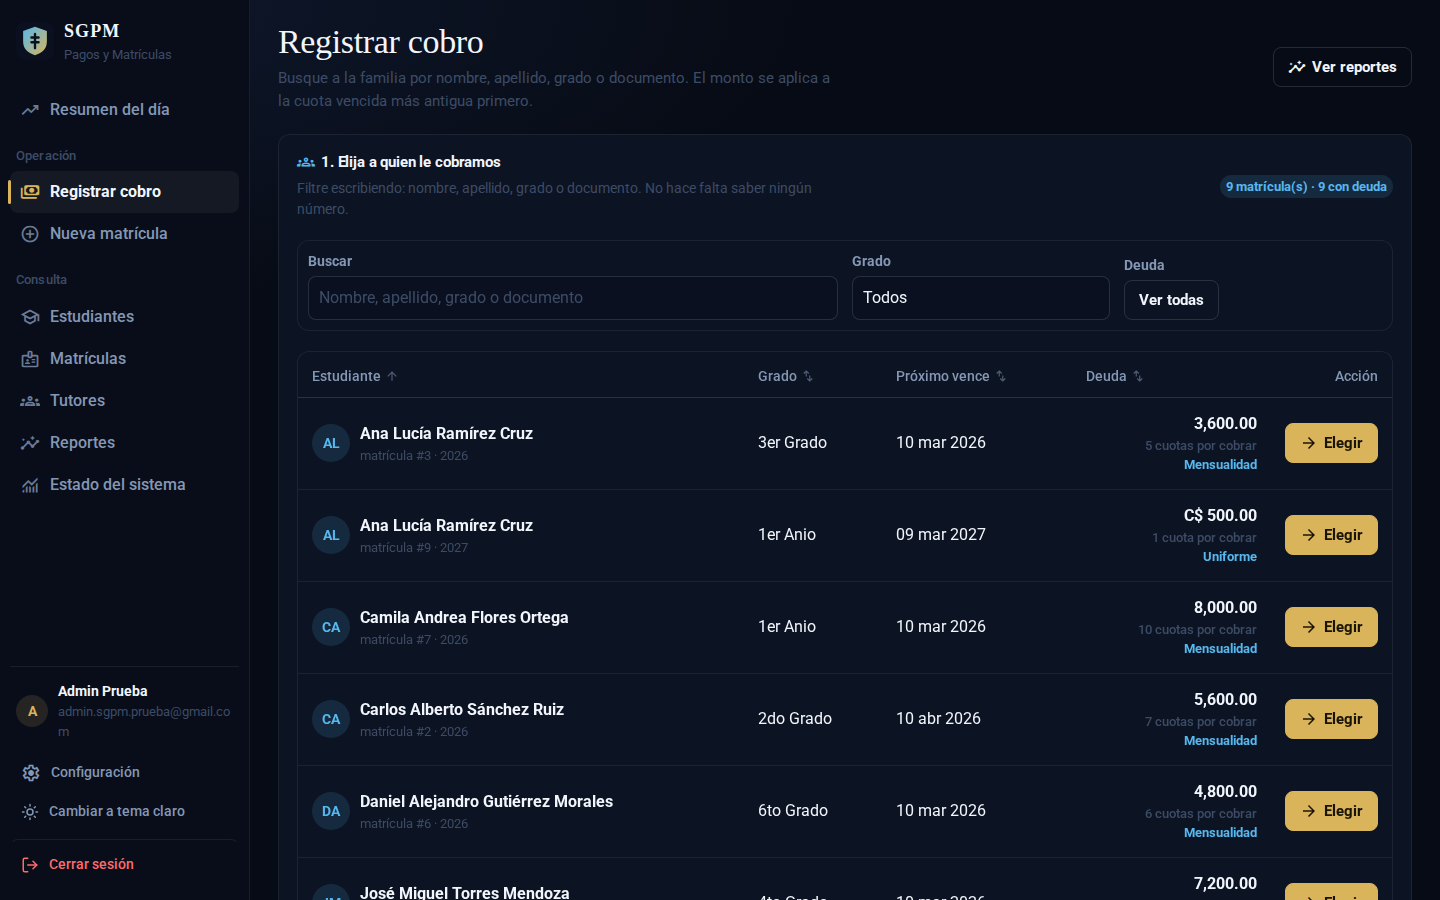
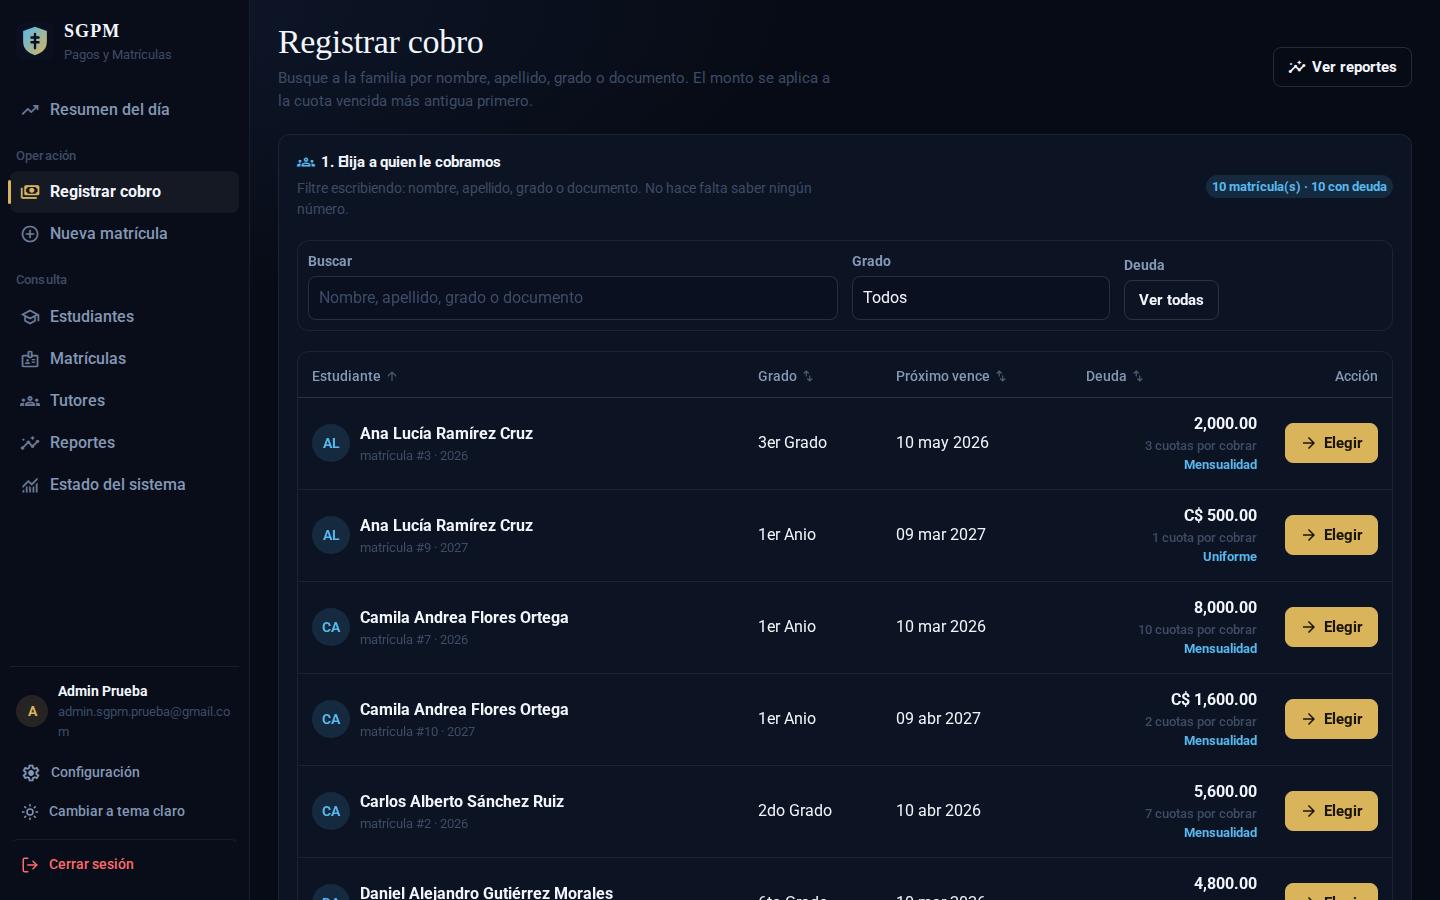
fix(cobro): fecha efectiva en UTC que cambiaba el día, y fecha/hora pegada en el historial
Dos defectos reales de la pantalla de cobro, encontrados al probar el flujo
completo (crear matrícula de mensualidad 2027 por la app y cobrarla):

1. La fecha efectiva se calculaba con `new Date().toISOString().slice(0,10)`,
   que devuelve la fecha EN UTC. En una zona detrás de UTC (México,
   Centroamérica) a partir de las 18:00 locales entregaba el día SIGUIENTE, y
   delante de UTC el anterior. Con una fecha de más o de menos, el backend
   rechazaba el cobro por caer fuera del rango del año lectivo: la persona veía
   el botón bloqueado o un error y no podía cobrar. Añadido `hoyLocal()` en
   formato.ts, que construye la fecha con los componentes locales, y usado en
   CobroPage (fecha efectiva) y ResumenPage (el "hoy" de la portada).

2. El historial de cobros del día mostraba fecha y hora pegadas y con un " h"
   suelto ("13 nov 202623:34:16 h"): ahora usa `fechaHora`, que además se
   endureció para aceptar el formato de PostgreSQL (espacio en lugar de "T" y
   microsegundos) y respetar el offset en vez de asumir hora local.

Verificado en navegador con datos reales: matrícula de mensualidad 2027 creada
(201), fecha efectiva correcta, cuotas de 2027 listadas y cobro registrado con
comprobante (CMP-2026-000003). Capturas 02 y 03 retomadas.

diff --git a/frontend/src/pages/CobroPage.tsx b/frontend/src/pages/CobroPage.tsx
@@ -14,7 +14,7 @@ import {
 } from '../components/Comunes';
 import { listar, mensajeDeError, mutationHeaders } from '../services/api';
 import api from '../services/api';
-import { conMoneda, fechaCorta, formatearImporte, iniciales, simboloMoneda } from '../utils/formato';
+import { conMoneda, fechaCorta, fechaHora, formatearImporte, hoyLocal, iniciales, simboloMoneda } from '../utils/formato';
 import TablaDeudores, { type Deudor } from '../components/TablaDeudores';
 
 /**
@@ -72,7 +72,7 @@ export default function CobroPage() {
 
   // --- Formulario ---------------------------------------------------------
   const [monto, setMonto] = useState('');
-  const [fechaEfectiva, setFechaEfectiva] = useState(new Date().toISOString().slice(0, 10));
+  const [fechaEfectiva, setFechaEfectiva] = useState(hoyLocal());
   const [medio, setMedio] = useState('EFECTIVO');
   const [referencia, setReferencia] = useState('');
   const [clave, setClave] = useState('');
@@ -633,10 +633,8 @@ function UltimosCobros() {
                 <span className="tabla__sub">matrícula #{f.matricula_id ?? '—'}</span>
               </td>
               <td>
-                {fechaCorta(f.fecha.slice(0, 10))}
-                <span className="tabla__sub">
-                  {f.fecha.slice(11, 19)} h · {f.medio}
-                </span>
+                {fechaHora(f.fecha)}
+                <span className="tabla__sub">{f.medio}</span>
               </td>
               <td className="tabla__numerico">{formatearImporte(f.monto)}</td>
               <td>

diff --git a/frontend/src/utils/formato.ts b/frontend/src/utils/formato.ts
@@ -82,7 +82,14 @@ export function fechaHora(iso: string): string {
   if (!iso) {
     return '—';
   }
-  const fecha = new Date(iso);
+  // PostgreSQL manda "2026-11-13 23:34:16.770142-05" (espacio, no "T", y
+  // microsegundos que JavaScript no entiende). Se normaliza a ISO para que
+  // Date respete el offset en lugar de asumir hora local.
+  const normalizado = iso
+    .trim()
+    .replace(' ', 'T')
+    .replace(/(\.\d{3})\d+/, '$1');
+  const fecha = new Date(normalizado);
   if (Number.isNaN(fecha.getTime())) {
     return iso;
   }
@@ -118,6 +125,22 @@ export function tiempoActivo(segundos: number): string {
   const horas = Math.floor(minutos / 60);
   const resto = minutos % 60;
   return resto === 0 ? `${horas} h` : `${horas} h ${String(resto).padStart(2, '0')} min`;
+}
+
+/**
+ * Fecha de HOY en la zona horaria de la persona, en formato YYYY-MM-DD.
+ *
+ * `new Date().toISOString().slice(0, 10)` devuelve la fecha EN UTC: en una
+ * zona detras de UTC (Mexico, Centroamerica) a partir de las 18:00 locales
+ * entrega el dia SIGUIENTE, y delante de UTC entrega el anterior. Con esa
+ * fecha el backend rechazaba el cobro por caer fuera del ano lectivo.
+ */
+export function hoyLocal(): string {
+  const ahora = new Date();
+  const año = ahora.getFullYear();
+  const mes = String(ahora.getMonth() + 1).padStart(2, '0');
+  const dia = String(ahora.getDate()).padStart(2, '0');
+  return `${año}-${mes}-${dia}`;
 }
 
 /** Iniciales para el avatar de la lista de busqueda. */

diff --git a/frontend/src/pages/ResumenPage.tsx b/frontend/src/pages/ResumenPage.tsx
@@ -22,7 +22,7 @@ import {
   PaletaComandos,
 } from '../components/Ayuda';
 import { listar, mensajeDeError } from '../services/api';
-import { conMoneda, formatearImporte, simboloMoneda } from '../utils/formato';
+import { conMoneda, formatearImporte, hoyLocal, simboloMoneda } from '../utils/formato';
 
 /**
  * ============================================================================
@@ -64,7 +64,9 @@ interface FilaPago {
 }
 
 function hoy(): string {
-  return new Date().toISOString().slice(0, 10);
+  // Fecha local, no UTC: con UTC la portada mostraba el dia siguiente a
+  // partir de las 18:00 en zonas detras de UTC (ver hoyLocal en formato.ts).
+  return hoyLocal();
 }
 
 /** Contra el total de cuotas del plan, para la barra de avance. */
